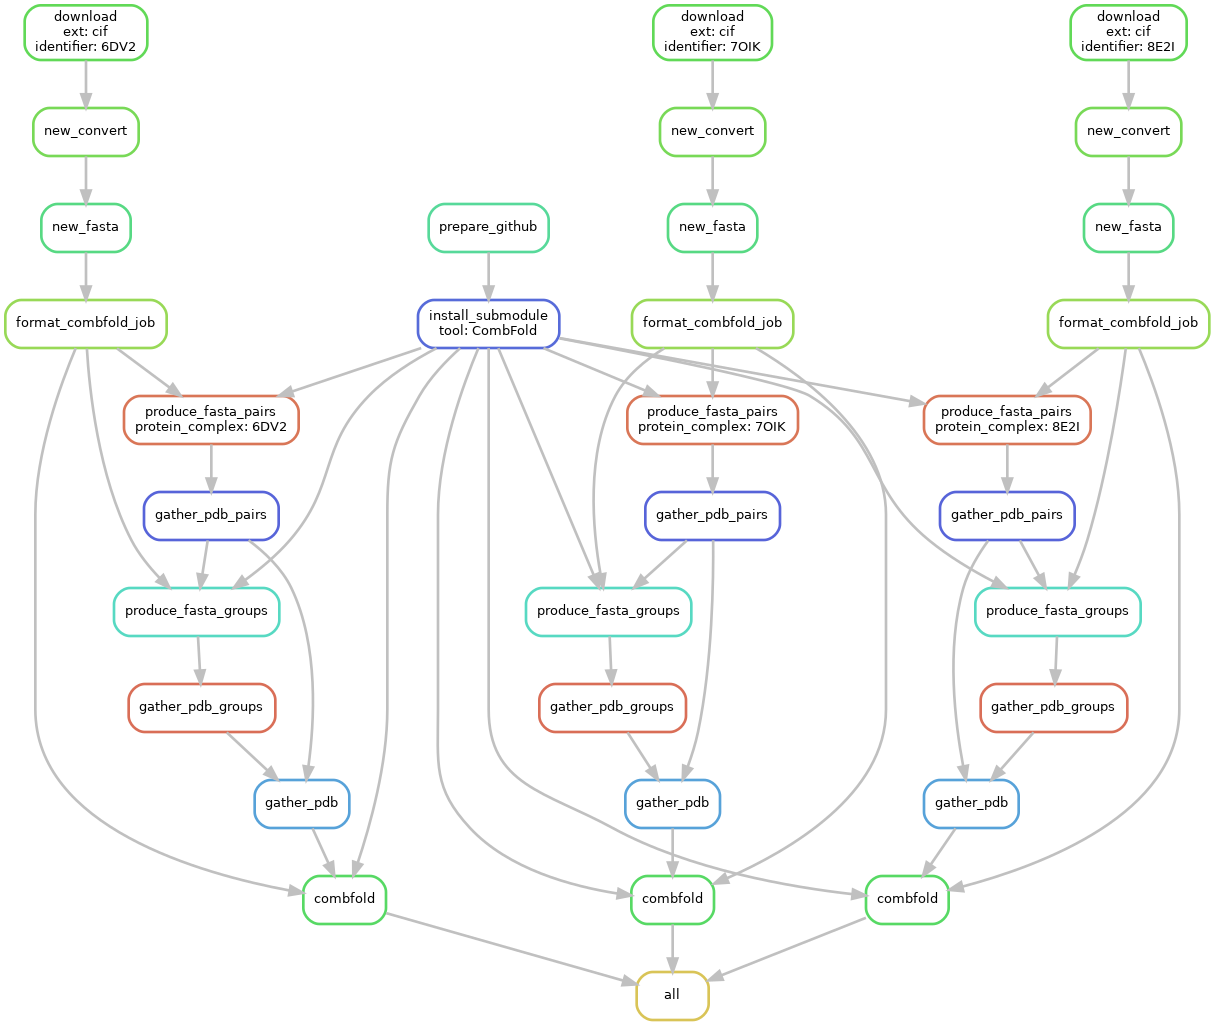
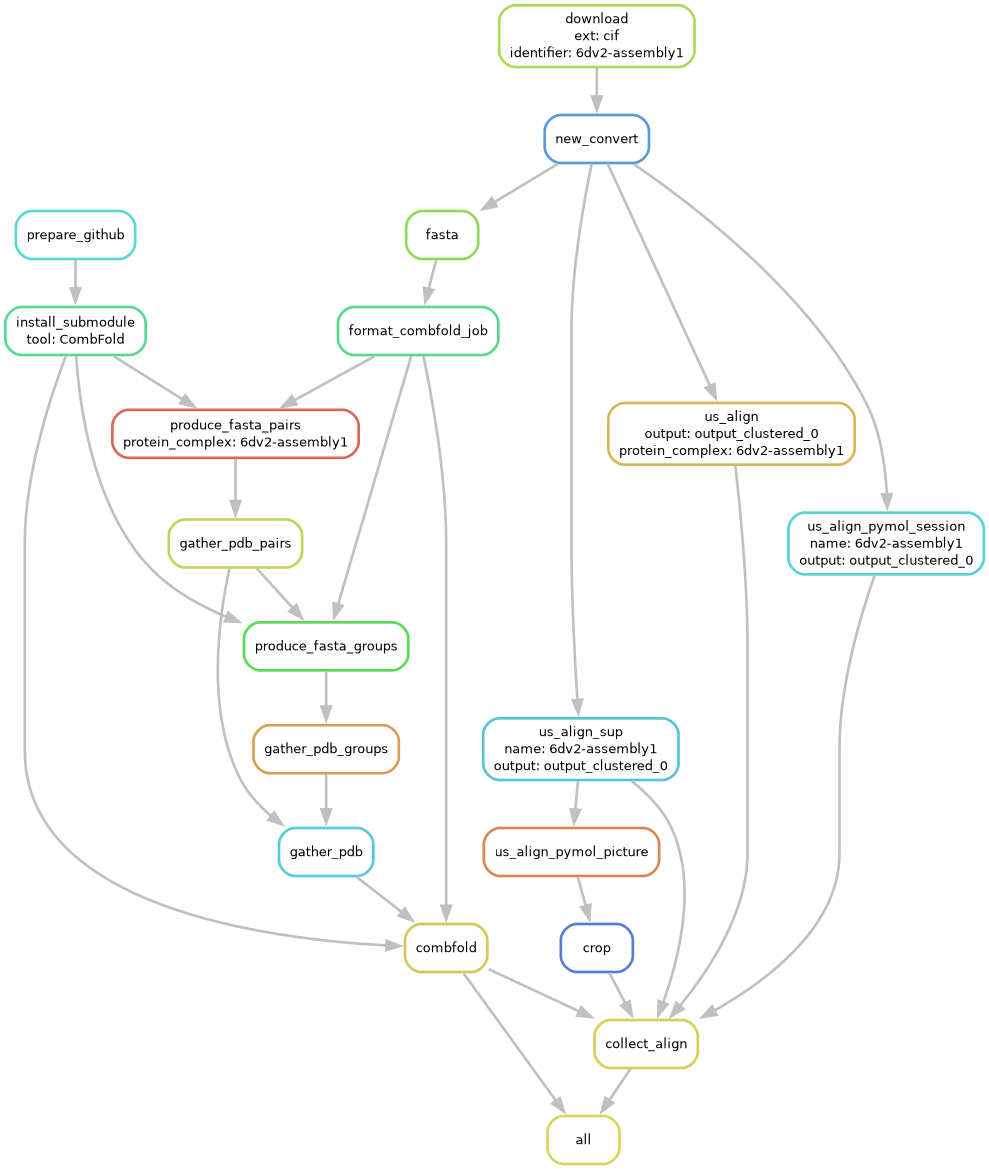
docs

diff --git a/README.md b/README.md
@@ -1,6 +1,8 @@
-# snakemake-pixi
+# Combfold benchmark
 
-Building snakemake workflows with pixi ✨
+The pipeline downloads selected structures from the PDB, and produces their
+Combfold predictions. These Combfold predictions are then aligned to
+the known structure and the USalign TM score is reported.
 
 ## Installation
 
@@ -17,3 +19,7 @@ pixi install
 ## Usage
 
 Run `pixi run help` for the help page.
+
+## Details
+
+![](resources/pipeline.png)
